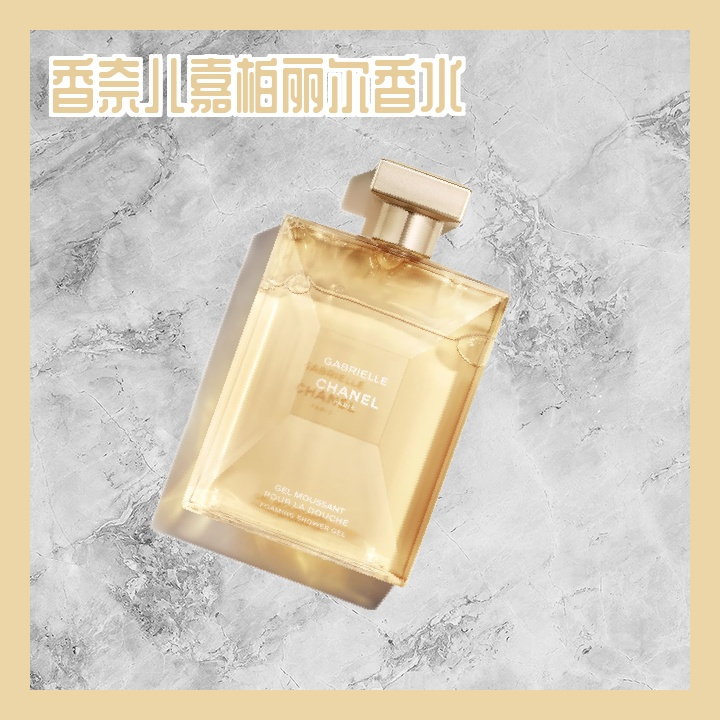
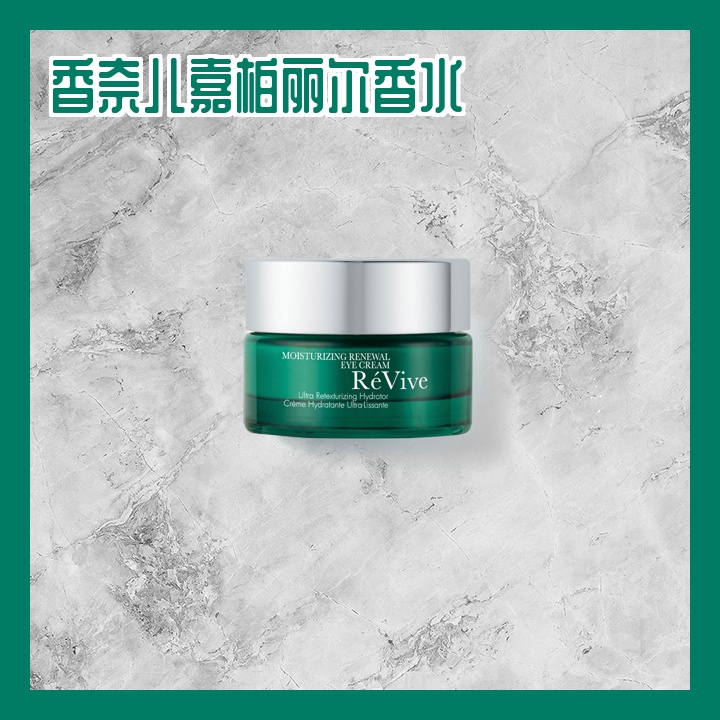
new image matting function

diff --git a/test.py b/test.py
@@ -1,21 +1,10 @@
-class Color:
-    def __init__(self):
-        self.black = ''
-        self.white = ''
-        self.dark_red = '#8B0000'
-        self.light_red = '#CD5C5C'
-        self.light_orange = ''
+from pymatting import cutout
 
-    def get_color(self, idx):
-        dict_items = self.__dict__
-        dictlist = []
-        for _, value in dict_items.items():
-            temp = [value]
-            dictlist.append(temp)
-        return dictlist[idx][0]
-
-
-if __name__ == "__main__":
-    c = Color()
-
-    print(c.get_color(3))
+cutout(
+    # input image path
+    r"img_fusion\image_matting\data\input\20000759811_1.png",
+    # input trimap path
+    r"img_fusion\image_matting\data\trimap\20000759811_1.png",
+    # output cutout path
+    "cutout.png"
+)

diff --git a/img_fusion/my_code/Class.py b/img_fusion/my_code/Class.py
@@ -211,8 +211,8 @@ if __name__ == "__main__":
     # print(ImgText().is_empty(1))
     img_text = ImgText()
     img_text.background.set_url('img_fusion/img_for_test/background.jpg')
-    img_text.product.set_url('img_fusion/img_for_test/product_01.png')
-    img_text.product.set_rotation('12')
+    img_text.product.set_url(r'E:\my_github\qumaishou\cutout.png')
+    img_text.product.set_rotation('00')
     img_text.frame.set_border('30')
     
     img_text.brand.set_text("香奈儿嘉柏丽尔香水")
